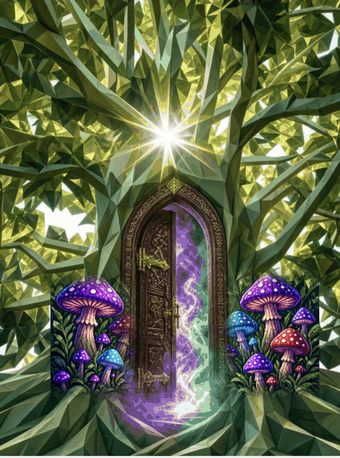
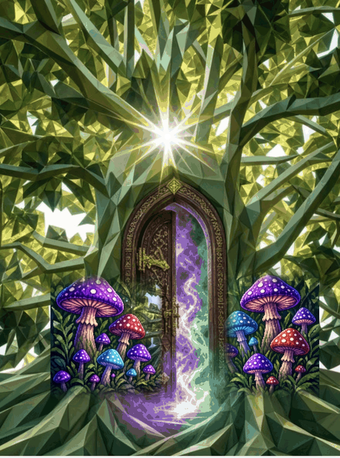
Door on phones: the left mushrooms run right up to the doorway
Claude-Session: https://claude.ai/code/session_01DGmyhhgdpe7iuFuzKzHk3m

Changed region(s): [[0.3529, 0.6114, 0.5, 0.8865]]

diff --git a/gate.js b/gate.js
@@ -31,7 +31,7 @@
 
   const FULL = "tree.png";
   const SMALL = "tree-small.png";       // lighter, for narrow screens
-  const PHONE = "tree-phone.png?v=2", PHONE_SMALL = "tree-phone-small.png?v=2";
+  const PHONE = "tree-phone.png?v=3", PHONE_SMALL = "tree-phone-small.png?v=3";
 
   const canvas = document.getElementById("sky");
   const tree   = document.getElementById("tree");

diff --git a/tools/phonewood.py b/tools/phonewood.py
@@ -24,7 +24,7 @@ FEET = 760     # where the clusters stand: above the button, which covers the bo
 # source box, left edge in the painting, width in the painting, and the band
 # (in painting x) over which it fades out toward the doorway
 CLUSTERS = [
-    ((0, 140, 390, 642),    95, 195, (212, 266)),
+    ((0, 140, 420, 642),    95, 210, (292, 312)),   # runs right up to the doorway, where the light covers the end
     ((770, 120, 1179, 642), 396, 205, (452, 414)),
 ]
 
